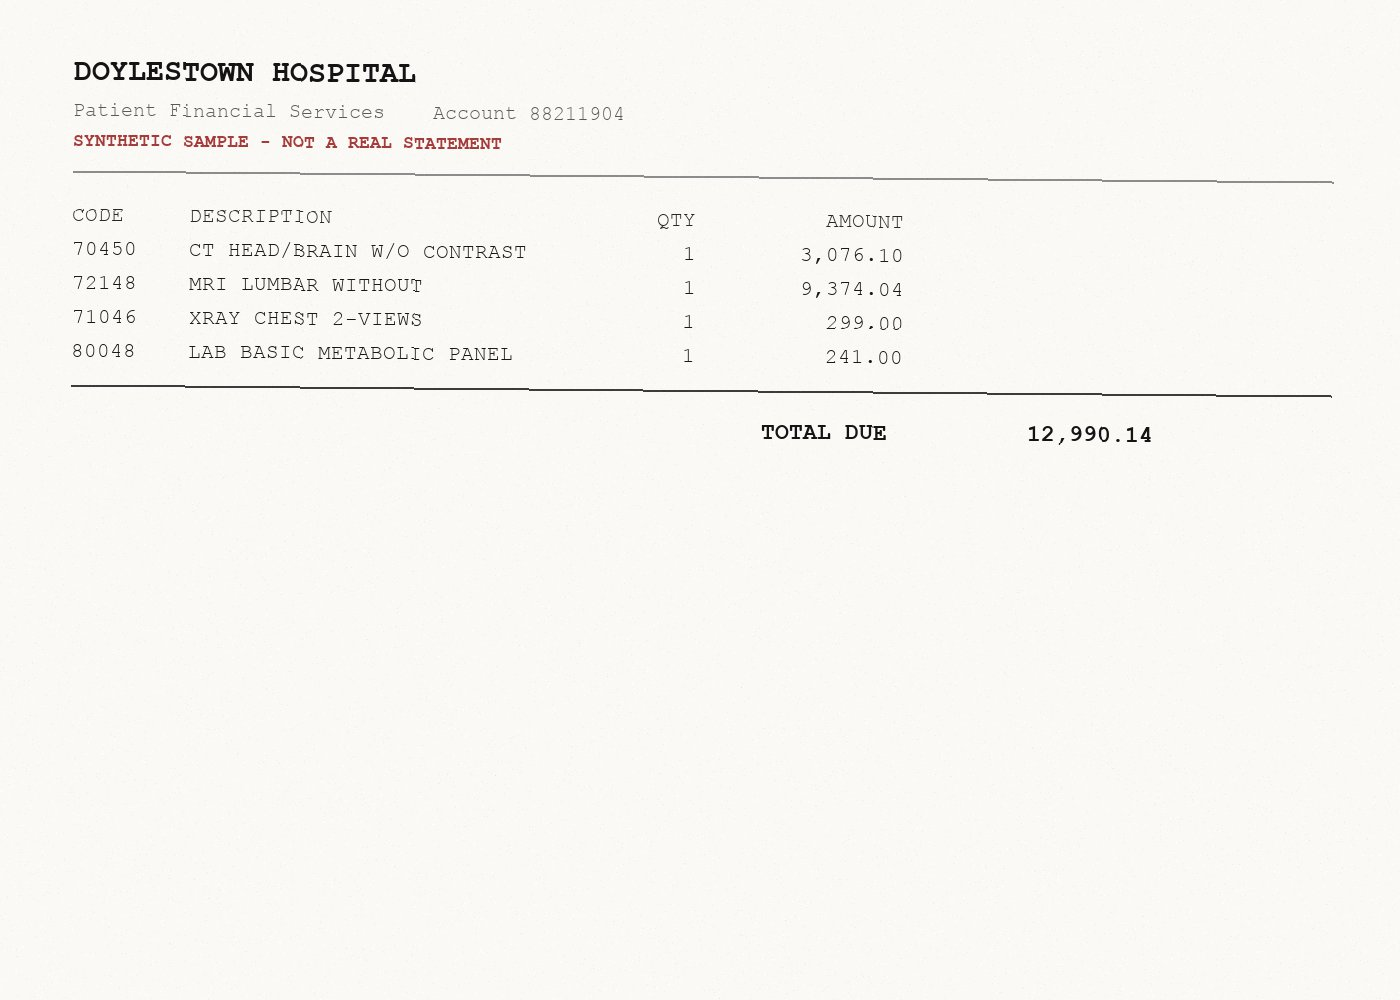
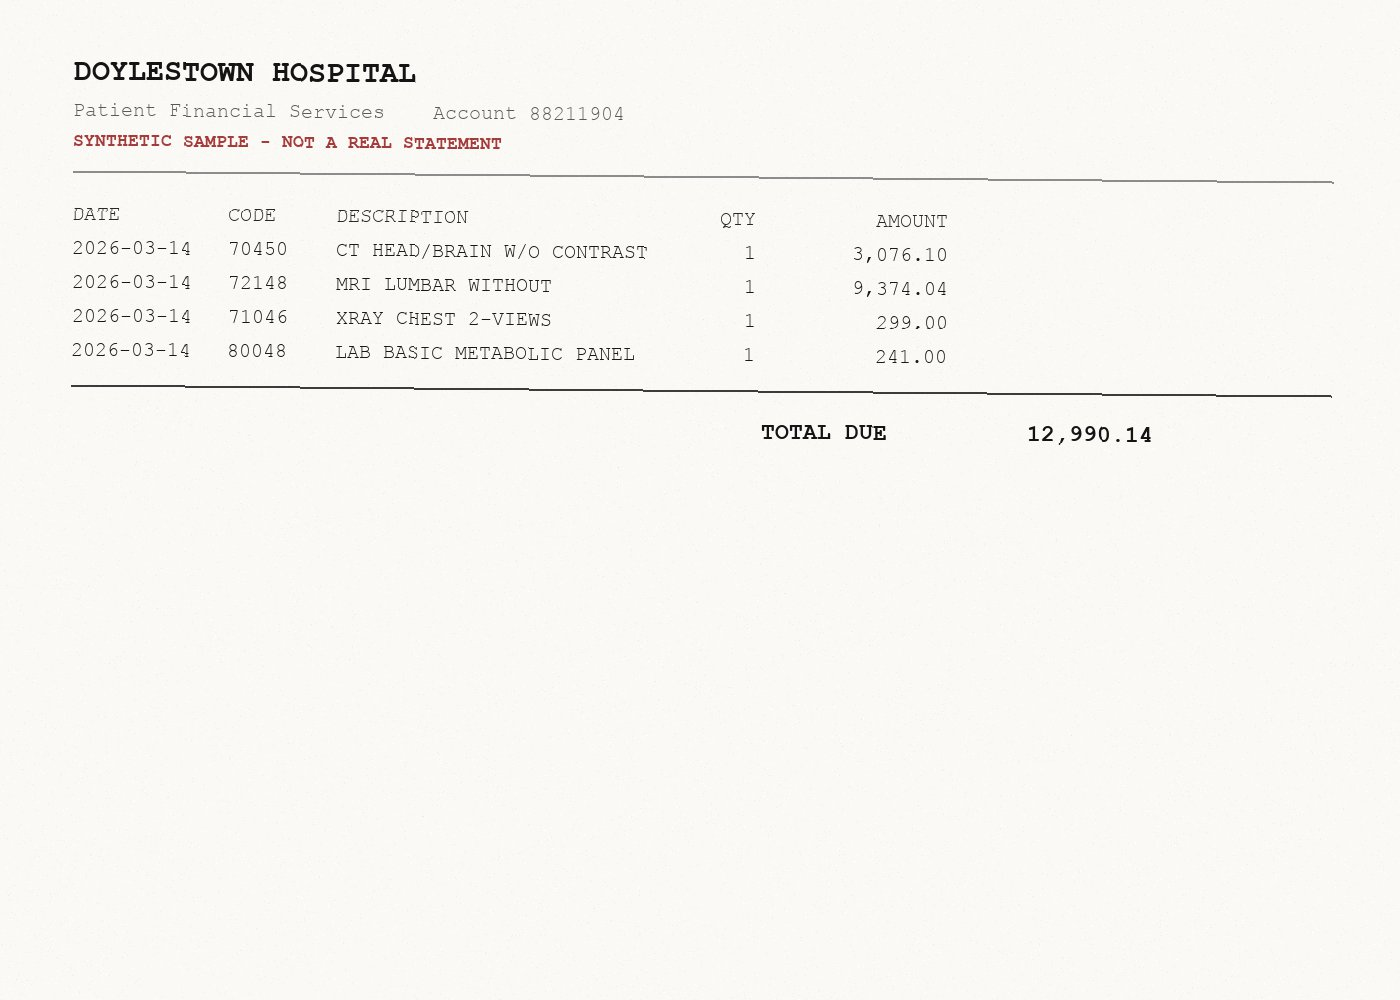
fix: three things the Bill output got wrong, found by looking at it
A screenshot of a real run showed all three. None would have been caught by a
test, because each one is a sentence that is false rather than a value that is
wrong.

  - "ABOVE THE PUBLISHED PRICE · 1" sat above a card reading "Billed more than
    once". That section carries duplicates, suspect quantities and codes with
    no published price as well as overcharges; the heading named one of them.
    Now "Checked against the published prices · N flagged".

  - That same card said "No published price for this code" about 99284, while
    the row above it showed Doylestown publishing $1,605.00 for exactly that
    code. The Checker leaves posted_price empty on a duplicate row - the price
    lives on the first instance - and the card read an empty field as an
    absent price. It now borrows the price from the same code's other row
    before claiming there is none.

  - "0 OF 4 LINES HAVE NOTHING BEHIND THEM" was followed by four cards. Undated
    lines are not counted as unsupported, correctly, but were still drawn: four
    identical "no date to check against" cards under a heading saying nothing
    was found. When no line on a bill is dated that is one fact about the bill,
    not one per line, and it is now stated once.

The third exposed a sample-data problem behind it: none of the generated bills
carried service dates, so the records cross-check could never do anything with
them. Real statements have a date column. The generator adds one, with some
[…]

Changed region(s): [[0.0614, 0.186, 0.3993, 0.372], [0.5836, 0.217, 0.6757, 0.372], [0.43, 0.248, 0.4607, 0.279]]

diff --git a/app.py b/app.py
@@ -650,14 +650,25 @@ def screen_check():
 
         flagged_lines = [l for l in priced["lines"] if l["verdict"] != "VERIFIED"]
         if flagged_lines:
-            st.markdown(ui.section(f"Above the published price · {len(flagged_lines)}"),
+            # "Above the published price" was wrong as a heading: this section also
+            # carries duplicates, suspect quantities and codes with no published price.
+            st.markdown(ui.section(f"Checked against the published prices · "
+                                   f"{len(flagged_lines)} flagged"),
                         unsafe_allow_html=True)
             for l in sorted(flagged_lines, key=lambda x: -(x.get("charged") or 0)):
                 label, tone = VERDICTS.get(l["verdict"], ("Checked", "warn"))
                 over = (f" · <b>{_m(l['amount_over'])} above</b>"
                         if l.get("amount_over") else "")
-                posted = (f"They publish {_m(l['posted_price'])} for this code"
-                          if l.get("posted_price") else
+                # The Checker leaves posted_price empty on a duplicate row - the price
+                # is on the first instance of that code. Saying "no published price"
+                # because this particular row lacks one told the reader the hospital
+                # publishes nothing for 99284 while the row above it showed $1,605.00.
+                price = l.get("posted_price")
+                if price is None and l.get("code"):
+                    price = next((o.get("posted_price") for o in priced["lines"]
+                                  if o.get("code") == l["code"] and o.get("posted_price")),
+                                 None)
+                posted = (f"They publish {_m(price)} for this code" if price else
                           "No published price for this code — worth asking about")
                 st.markdown(
                     f"<div class='hit {tone}'><span class='amt'>{_m(l['charged'])}</span>"
@@ -672,14 +683,32 @@ def screen_check():
     st.session_state["findings"] = {"priced": st.session_state.get("priced"),
                                     "rights": protections, "face": [f for _, f in face],
                                     "crosschecked": checked}
-    st.markdown(ui.section(f"{summary['unsupported']} of {summary['lines']} lines "
-                           "have nothing behind them"), unsafe_allow_html=True)
-    for r in checked:
-        label, tone = crosscheck.VERDICTS[r["verdict"]]
-        amt = (f"<span class='amt'>${r['charged']:,.2f}</span>"
-               if r.get("charged") else "")
-        st.markdown(f"<div class='hit {tone}'>{amt}<div class='h'>{label}</div>"
-                    f"<div class='b'>{r['ask']}</div></div>", unsafe_allow_html=True)
+
+    # A bill with no dates on it produced one identical "no date to check against" card per
+    # line, under a heading that said nothing was found - four cards saying the same thing
+    # beneath "0 of 4". When nothing is dated, that is one fact about the bill, not N.
+    undated = [r for r in checked if r["verdict"] == "UNDATED"]
+    if len(undated) == len(checked) and checked:
+        st.markdown(ui.section("Against your records"), unsafe_allow_html=True)
+        st.markdown(
+            "<div class='hit warn'><div class='h'>No dates on this bill to check against"
+            "</div><div class='b'>None of these lines carries a service date, so none of "
+            "them can be matched to your records. Ask the billing office for a statement "
+            "with dates — it is the single thing that makes the rest of this checkable."
+            "</div></div>", unsafe_allow_html=True)
+    else:
+        worth_showing = [r for r in checked if r["verdict"] != "UNDATED"]
+        st.markdown(ui.section(f"{summary['unsupported']} of {summary['lines']} lines "
+                               "have nothing behind them"), unsafe_allow_html=True)
+        if undated:
+            st.caption(f"{len(undated)} line(s) carry no date and could not be checked "
+                       f"either.")
+        for r in worth_showing:
+            label, tone = crosscheck.VERDICTS[r["verdict"]]
+            amt = (f"<span class='amt'>${r['charged']:,.2f}</span>"
+                   if r.get("charged") else "")
+            st.markdown(f"<div class='hit {tone}'>{amt}<div class='h'>{label}</div>"
+                        f"<div class='b'>{r['ask']}</div></div>", unsafe_allow_html=True)
     st.markdown(f"<div class='note'>{summary['caveat']}</div>", unsafe_allow_html=True)
 
     # ---- the letter --------------------------------------------------------

diff --git a/tools/make_sample_bills.py b/tools/make_sample_bills.py
@@ -28,10 +28,14 @@ def posted():
 P = posted()
 
 
-def at(code, mult=1.0, units=1):
-    """A line at a multiple of the hospital's own published price."""
+MATCHED_DAY = "2026-03-14"      # the demo vault has records on this date
+OTHER_DAY = "2026-06-02"        # nothing filed anywhere near this one
+
+
+def at(code, mult=1.0, units=1, day=MATCHED_DAY):
+    """A line at a multiple of the hospital's own published price, on a given date."""
     price, desc = P[code]
-    return (code, desc[:30], units, round(price * mult * units, 2))
+    return (code, desc[:30], units, round(price * mult * units, 2), day)
 
 
 BILLS = [
@@ -42,13 +46,14 @@ BILLS = [
     ("03_quantity", "A visit-level code billed ten times over.",
      lambda: [at("99282", 1.0, 10), at("80048"), at("71046")]),
     ("04_unspecified", "An unclassified drug code that declines to say what was given.",
-     lambda: [at("70450"), ("J3490", "UNCLASSIFIED DRUG", 1, 4200.00),
-              ("A9270", "NON-COVERED ITEM", 1, 860.00)]),
+     lambda: [at("70450"), ("J3490", "UNCLASSIFIED DRUG", 1, 4200.00, OTHER_DAY),
+              ("A9270", "NON-COVERED ITEM", 1, 860.00, OTHER_DAY)]),
     ("05_ambulance", "Includes a ground ambulance line - the federal carve-out.",
-     lambda: [("A0427", "ALS AMBULANCE EMERGENCY", 1, 1890.00), at("99285", 1.4),
-              at("70450")]),
+     lambda: [("A0427", "ALS AMBULANCE EMERGENCY", 1, 1890.00, OTHER_DAY),
+              at("99285", 1.4, day=OTHER_DAY), at("70450", day=OTHER_DAY)]),
     ("06_summary_not_itemised", "A summary with no billing codes - should be rejected.",
-     lambda: [("", "HOSPITAL SERVICES", 1, 8420.00), ("", "PHARMACY", 1, 1180.00)]),
+     lambda: [("", "HOSPITAL SERVICES", 1, 8420.00, MATCHED_DAY),
+              ("", "PHARMACY", 1, 1180.00, MATCHED_DAY)]),
     ("07_clean", "Every line exactly at the published price - nothing should flag.",
      lambda: [at("70450"), at("71046"), at("80048"), at("76700")]),
 ]
@@ -60,10 +65,10 @@ def as_text(note, lines):
            "Patient Financial Services    Account 88211904",
            "*** SYNTHETIC SAMPLE - NOT A REAL STATEMENT ***",
            f"({note})", "",
-           f"{'CODE':<8}{'DESCRIPTION':<34}{'QTY':>4}{'AMOUNT':>13}"]
-    for code, desc, units, amt in lines:
-        out.append(f"{code:<8}{desc:<34}{units:>4}{amt:>13,.2f}")
-    out += ["", f"{'TOTAL DUE':>46}{total:>13,.2f}"]
+           f"{'DATE':<12}{'CODE':<8}{'DESCRIPTION':<32}{'QTY':>4}{'AMOUNT':>13}"]
+    for code, desc, units, amt, day in lines:
+        out.append(f"{day:<12}{code:<8}{desc:<32}{units:>4}{amt:>13,.2f}")
+    out += ["", f"{'TOTAL DUE':>57}{total:>13,.2f}"]
     return "\n".join(out)
 
 
@@ -90,11 +95,11 @@ def as_image(lines, path):
     d.text((70, y), "SYNTHETIC SAMPLE - NOT A REAL STATEMENT",
            font=font(18, True), fill=(165, 60, 60)); y += 40
     d.line([(70, y), (W - 70, y)], fill=(140, 140, 140), width=2); y += 32
-    d.text((70, y), f"{'CODE':<9}{'DESCRIPTION':<34}{'QTY':>5}{'AMOUNT':>16}",
-           font=font(21), fill=(40, 40, 40)); y += 34
-    for code, desc, units, amt in lines:
-        d.text((70, y), f"{code or '--':<9}{desc:<34}{units:>5}{amt:>16,.2f}",
-               font=font(21), fill=(25, 25, 25)); y += 34
+    d.text((70, y), f"{'DATE':<13}{'CODE':<9}{'DESCRIPTION':<30}{'QTY':>5}{'AMOUNT':>16}",
+           font=font(20), fill=(40, 40, 40)); y += 34
+    for code, desc, units, amt, day in lines:
+        d.text((70, y), f"{day:<13}{code or '--':<9}{desc:<30}{units:>5}{amt:>16,.2f}",
+               font=font(20), fill=(25, 25, 25)); y += 34
     y += 12
     d.line([(70, y), (W - 70, y)], fill=(60, 60, 60), width=2); y += 28
     total = sum(l[3] for l in lines)
